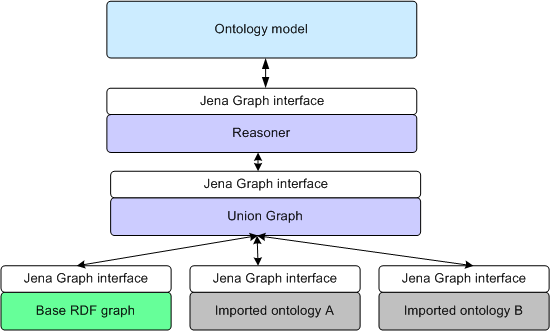
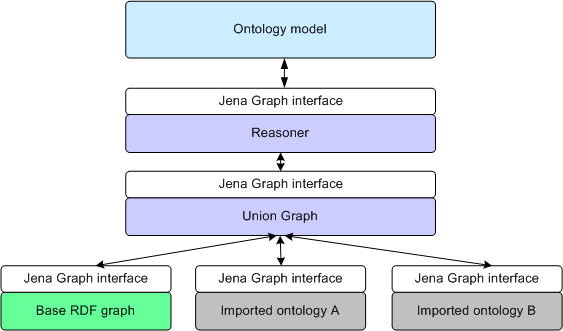
Checkpoint: completed section three of ont user manual

diff --git a/doc/user-manual/ontology/index.html b/doc/user-manual/ontology/index.html
@@ -40,7 +40,7 @@
   <li><a href="#cameraExample">Running example: the camera ontology</a></li>
   <li><a href="#creatingModels">Creating ontology models</a></li>
   <li><a href="#documentHandling">Handling ontology documents and imports</a></li>
-  <li>Handling ontology components: classes (basic)</li>
+  <li><a href="#classesBasic">Handling ontology components: basic class expressions</a></li>
   <li>Handling ontology components: properties</li>
   <li>Handling ontology components: more complex class expressions</li>
   <li>Ontology meta-data</li>
@@ -222,6 +222,54 @@
   the ontology model. It also means that the base graph can be an in-memory store, 
   a database-backed persistent store, or some other storage structure altogether 
   (e.g. an LDAP directory) again without affecting the ontology model.</p>
+<h3>RDF-level polymorphism and Java</h3>
+<p>Consider the following RDF sample:</p>
+<pre>&lt;rdfs:Class rdf:ID=&quot;DigitalCamera&quot;&gt;
+&lt;/rdfs:Class&gt;</pre>
+<p>This declares that the resource with the (relative) URI #DigitalCamera is an 
+  ontology class. It might be appropriate to model declaration in Java with an 
+  instance of an <code>OntClass</code>. Now suppose we augment the class declaration 
+  with some more information:</p>
+<pre>&lt;rdfs:Class rdf:ID=&quot;DigitalCamera&quot;&gt;
+  &lt;rdf:type owl:Restriction /&gt;
+&lt;/rdfs:Class&gt;</pre>
+<p>Now we are saying that <code>#DigitalCamera</code> is an OWL Restriction (which 
+  is a sub-class of rdfs:Class, so this is a perfectly consistent operation). 
+  The problem we have is that Java does not allow us to dynamically change the 
+  Java class of the object modelling this resource. The resource has not changed: 
+  it still has URI <code>#DigitalCamera</code>. But the appropriate Java class 
+  we might choose to model it has changed from <code>OntClass</code> to <code>Restriction</code>. 
+  Conversely, if we remove the <code>rdf:type Restiction</code> from the model, 
+  the use of a <code>Restriction</code> Java class is no longer appropriate. </p>
+<p>Even worse, OWL Full allows us the following (rather counter-intuitive) construction:</p>
+<pre>&lt;rdfs:Class rdf:ID=&quot;DigitalCamera&quot;&gt;
+  &lt;rdf:type owl:ObjectProperty /&gt;
+&lt;/rdfs:Class&gt;</pre>
+<p>That is, <code>#DigitalCamera</code> is now a class <i>and</i> a property. 
+  While this may not be a very useful operation, it illustrates a basic point 
+  that we cannot rely on a consistent or unique mapping between an RDF resource 
+  and the appropriate Java abstraction. In the Jena1 DAML API, we attempted to 
+  determine the most-specific Java class for a given DAML object, and create one 
+  an instance of that class to model the DAML resource. While having some advantages, 
+  this scheme was very brittle and it was easy to construct cases in which it 
+  failed.</p>
+<p>Jena 2 accepts this basic characteristic of polymorphism at the RDF level by 
+  considering that the Java abstraction (OntClass, Restriction, DatatypeProperty, 
+  etc) is just a view or <i>facet</i> of the resource. Given a RDF object (i.e. 
+  an instance of <code>com.hp.hpl.jena.rdf.model.RDFNode</code> or one of its 
+  many sub-classes), we can get a new facet with the <code>as()</code> method. 
+  For example:</p>
+<pre>Resource r = myModel.getResource( myNS + &quot;DigitalCamera&quot; );
+OntClass cls = (OntClass) r.as( OntClass.class );
+Restriction rest = (Restriction) cls.as( Restriction.class );</pre>
+<p>This pattern allows us to defer until run-time decisions about the correct 
+  Java abstraction to use, and make this choice depend on the properties of the 
+  resource itself. If a given RDFNode will not support the conversion to a given 
+  facet, it will raise an exception. The rather clumsily named <code>canAs()</code> 
+  allows a programmer to test whether the <code>as()</code> conversion would work 
+  for a given resource.</p>
+<p>This RDF-level polymorphism is used extensively in the Jena ontology API to 
+  allow maximum flexibility in handling ontology data.</p>
 <h2 id="cameraExample">Running example: the camera ontology</h2>
 <p>To illustrate the principles of using the Ontology API, we use examples drawn 
   from a <a href="http://www.google.com/search?hl=en&ie=UTF-8&oe=UTF-8&q=Roger%2BCostello%2Bcamera%2Bontology">Roger 
@@ -359,7 +407,7 @@ read( InputStream reader, String base, String lang )</pre>
 <p>The ontology DocumentManager is a helper class for OntModel that assists with 
   handling such imports. Before discussing it further, we need to update Figure 
   2 to show how imported documents are handled:</p>
-<p class="centered"><img src="../../images/Ont-model-layers-import.png" width="550" height="331"></p>
+<p class="centered"><img src="../../images/Ont-model-layers-import.png" width="563" height="331"></p>
 <p class="caption">Figure 4: ontology internal structure including imports</p>
 <p>We see that each imported ontology document is held in a separate graph structure. 
   This is important: if we did not do this, once the imports had been processed 
@@ -373,7 +421,133 @@ read( InputStream reader, String base, String lang )</pre>
 <p>Imports are processed recursively, so if our base document imports ontology 
   A, and A imports B, we will end up with the structure shown in Figure 4. The 
   occurs check is used to prevent the document manager getting stuck if B also 
-  imports A! </p>
+  imports A!</p>
+<h3>The ontology document manager</h3>
+<p>Each ontology model has an associated document manager that assists with the 
+  processing and handling of ontology documents. For convenience, there is one 
+  global document manager that is used by default by ontology models. This shared 
+  instance is accessible via <code>OntDocumentManager.getInstance()</code>. In 
+  many cases, it will be sufficient to simply change the settings on the global 
+  document manager to suit a given application's needs. However, for more fine-grain 
+  control, separate document managers may be constructed and passed to the ontology 
+  model when it is created through the model factory. This is achieved by creating 
+  (or adapting) an ontology specification object, and setting the document manager 
+  attribute, for example:</p>
+<pre>OntDocumentManager mgr = new OntDocumentManager();<br>// set the mgr's properties now ...
+OntModelSpec s = new OntModelSpec( OntModelSpec.RDFS_MEM );
+s.setDocumentManager( mgr );
+OntModel m = ModelFactory.createOntologyModel( s, null );</pre>
+<p>Note that the model retains a reference to the document manager it was created 
+  with. Thus changing a document manager's properties will affect models that 
+  have previously been constructed with that document manager.</p>
+<h3>Document manager policy</h3>
+<p>Since the document manager has a large number of configurable options, there 
+  are two ways in which it can be customised to application requirements. Firstly, 
+  the individual parameters of the document manager can be set by Java code. Alternatively, 
+  when a given document manager is created it can load values for the various 
+  parameters from a policy file, expressed in RDF. The document manager has a 
+  list of URL's on which it will search for a policy document. It will stop at 
+  the first entry on the list that resolves to a retrievable document. The default 
+  search path for the policy is: <code>file:etc/ont-policy.rdf;file:ont-policy.rdf</code>. 
+  Thus the default policy, which can serve as a template for user-defined policies, 
+  can be found in the <code>etc/</code> directory under the Jena download directory.</p>
+<p>General properties of the document manager are set in the policy as properties 
+  on a DocumentManagerPolicy object as follows:</p>
+<pre>&lt;DocumentManagerPolicy&gt;
+  &lt;!-- policy for controlling the document manager's behaviour --&gt;
+  &lt;processImports rdf:datatype=&quot;&amp;xsd;boolean&quot;&gt;true&lt;/processImports&gt;
+  &lt;cacheModels rdf:datatype=&quot;&amp;xsd;boolean&quot;&gt;true&lt;/cacheModels&gt;
+&lt;/DocumentManagerPolicy&gt;</pre>
+<p>The (simple) ontology that declares the various properties that can be used 
+  in such a policy is available in the vocabularies directory in the Jena download, 
+  see <code>ont-manager.rdf</code>.</p>
+<p>To change the search path that the document manager will use to initialise 
+  itself, either pass the new search path as a string when creating a new document 
+  manager object, or call the method <code>setMetadataSearchPath</code>.</p>
+<p></p>
+<h3>The ModelMaker parameter of the document manager</h3>
+<p>In order for the document manager to build the union of the imported documents 
+  (which we refer to as the <i>imports closure</i>), it must be able to create 
+  new graphs to store the imported ontologies. A parameter of the document manager 
+  is its <i>model maker</i>. The model maker is a simple interface that allows 
+  different kinds of models (in memory, from file, in persistent database, etc) 
+  to be built on demand. For the database case, this may include passing the database 
+  user-name and password and other connection parameters. New model makers can 
+  be created via <code>ModelFactory</code>. The default specifications in OntModelSpec 
+  that begin MEM_ use an in-memory model for the base model, and use a memory 
+  model maker to store the imported ontologies in in-memory models.</p>
+<p><b>Note</b>: internally to Jena, we use the Graph as a primary data structure. 
+  However, user code will almost always refer to models, not graphs. A model wraps 
+  a graph, and provides convenience methods for accessing the contents of the 
+  graph. Hence Figure 4, above, refers to a structure containing graphs, but we 
+  use a <code>ModelMaker</code> to generate new stores. The document manager extracts 
+  the appropriate graph from the containing model.</p>
+<h3>Controlling imports processing</h3>
+<p>To load an ontology without building the imports closure, call the method <code>setProcessImports(&nbsp;false&nbsp;)</code> 
+  on the document manager object, or set the <code>processImports</code> property 
+  in the policy file. To be more selective, it is possible to ignore certain URI's 
+  when loading the imported documents. Call the method <code>addIgnoreImport(&nbsp;String&nbsp;uri&nbsp;)</code> 
+  on the document manager object, or set the <code>ignoreImport</code> property 
+  in the policy.</p>
+<p>A strength of working with ontologies is that we can re-use work done by other 
+  ontologists by importing their published ontologies. Often, however, this means 
+  that the ontology is only retrievable by traversing an Internet firewall. Even 
+  if this is possible, by using an HTTP proxy, it may impose unacceptable delay 
+  in loading an application. In the worst case, an ontology on which our application 
+  depends is temporarily or permanently unavailable from the original published 
+  URL. To assist with this common problem, the ontology document manager allows 
+  a local indirection, so that an attempt to import a document from a given published 
+  URL means that a local copy of the document is retrieved instead. This may be 
+  a file copy or simply duplicated on an internal mirror web site.</p>
+<p>To specify this local re-direction in the policy file, we use the following 
+  declarations:</p>
+<pre>&lt;OntologySpec&gt;
+  &lt;!-- local version of the RDFS vocabulary --&gt;
+  &lt;publicURI rdf:resource=&quot;http://www.w3.org/2000/01/rdf-schema&quot;    /&gt;
+  &lt;altURL rdf:resource=&quot;file:vocabularies/rdf-schema.rdf&quot; /&gt;
+  &lt;language rdf:resource=&quot;http://www.w3.org/2000/01/rdf-schema&quot; /&gt;
+  &lt;prefix rdf:datatype=&quot;&amp;xsd;string&quot;&gt;rdfs&lt;/prefix&gt;
+&lt;/OntologySpec&gt;</pre>
+<p>This specifies that an attempt to load the RDFS vocabulary from <code>http://www.w3.org/2000/01/rdf-schema</code> 
+  will transparently cause <code>file:vocabularies/rdf-schema.rdf</code> to be 
+  fetched instead. Any number of such re-directions may be specified in the policy 
+  file, or they can be added to the document manager object directly by calling 
+  the various 'add' methods (see the Javadoc for details). As a side-effect, this 
+  mechanism also means that ontologies can be named with any legal URI (not necessarily 
+  resolvable) - so long as the altURL is itself resolvable.</p>
+<h3>Specifying prefixes</h3>
+<p>A model keeps a table of URI prefixes that can be used to render URI's in the 
+  shortened prefix:name form, which is useful in displaying URI's in a readable 
+  way in user interfaces, and is essential in producing legal XML names that denote 
+  arbitrary URI's. The ontology model's table of prefixes can be initialised from 
+  a table kept by the document manager, which contains the standard prefixes plus 
+  any that are declared by in the policy file (or added to subsequently by method 
+  calls). To prevent the model's prefix table from being initialised in this way, 
+  use the property <code>useDeclaredNsPrefixes</code> in the policy file (with 
+  value 'false'), or call the method <code>setUseDeclaredPrefixes</code> on the 
+  ontology object.</p>
+<h3>Caching models</h3>
+<p>The final behaviour that the document manager provides to assist with loading 
+  ontology documents is a model cache. Suppose two ontologies, A and B both import 
+  ontology C. It would be nice not to have to read C twice when loading A and 
+  B. The document manager supports this use case by optionally caching C's model, 
+  indexed by C's URI. Then an attempt to import C from B, it previously having 
+  been loaded by A, would result in a significant time saving, and a re-use of 
+  the same model for C in both A and B. </p>
+<p>To turn model caching on or off, use the policy property <code>cacheModels</code>, 
+  or call the method <code>setCacheModels(&nbsp;boolean&nbsp;caching&nbsp;)</code>. 
+  The default is caching on. The document manager's current model cache can be 
+  cleared at any time by calling <code>clearCache()</code>.</p>
+<h3>Example</h3>
+<p>In the following example, we programmatically declare that the camera ontology 
+  is copied locally, and then load it using the public URL. Assume that the constant 
+  JENA has been initialised to the directory in which Jena is installed.</p>
+<pre>OntModel m = ModelFactory.createOntologyModel();
+OntDocumentManager dm = m.getDocumentManager();
+dm.addAltEntry( &quot;http://www.xfront.com/owl/ontologies/camera/&quot;,
+                &quot;file:&quot; + JENA + &quot;doc/user-manual/ontology/data/camera.owl&quot;    );
+m.read( &quot;http://www.xfront.com/owl/ontologies/camera/&quot; );</pre>
+<h2>Handling ontology components: basic class expressions</h2>
 <p>&nbsp;</p>
 </body>
 </html>
